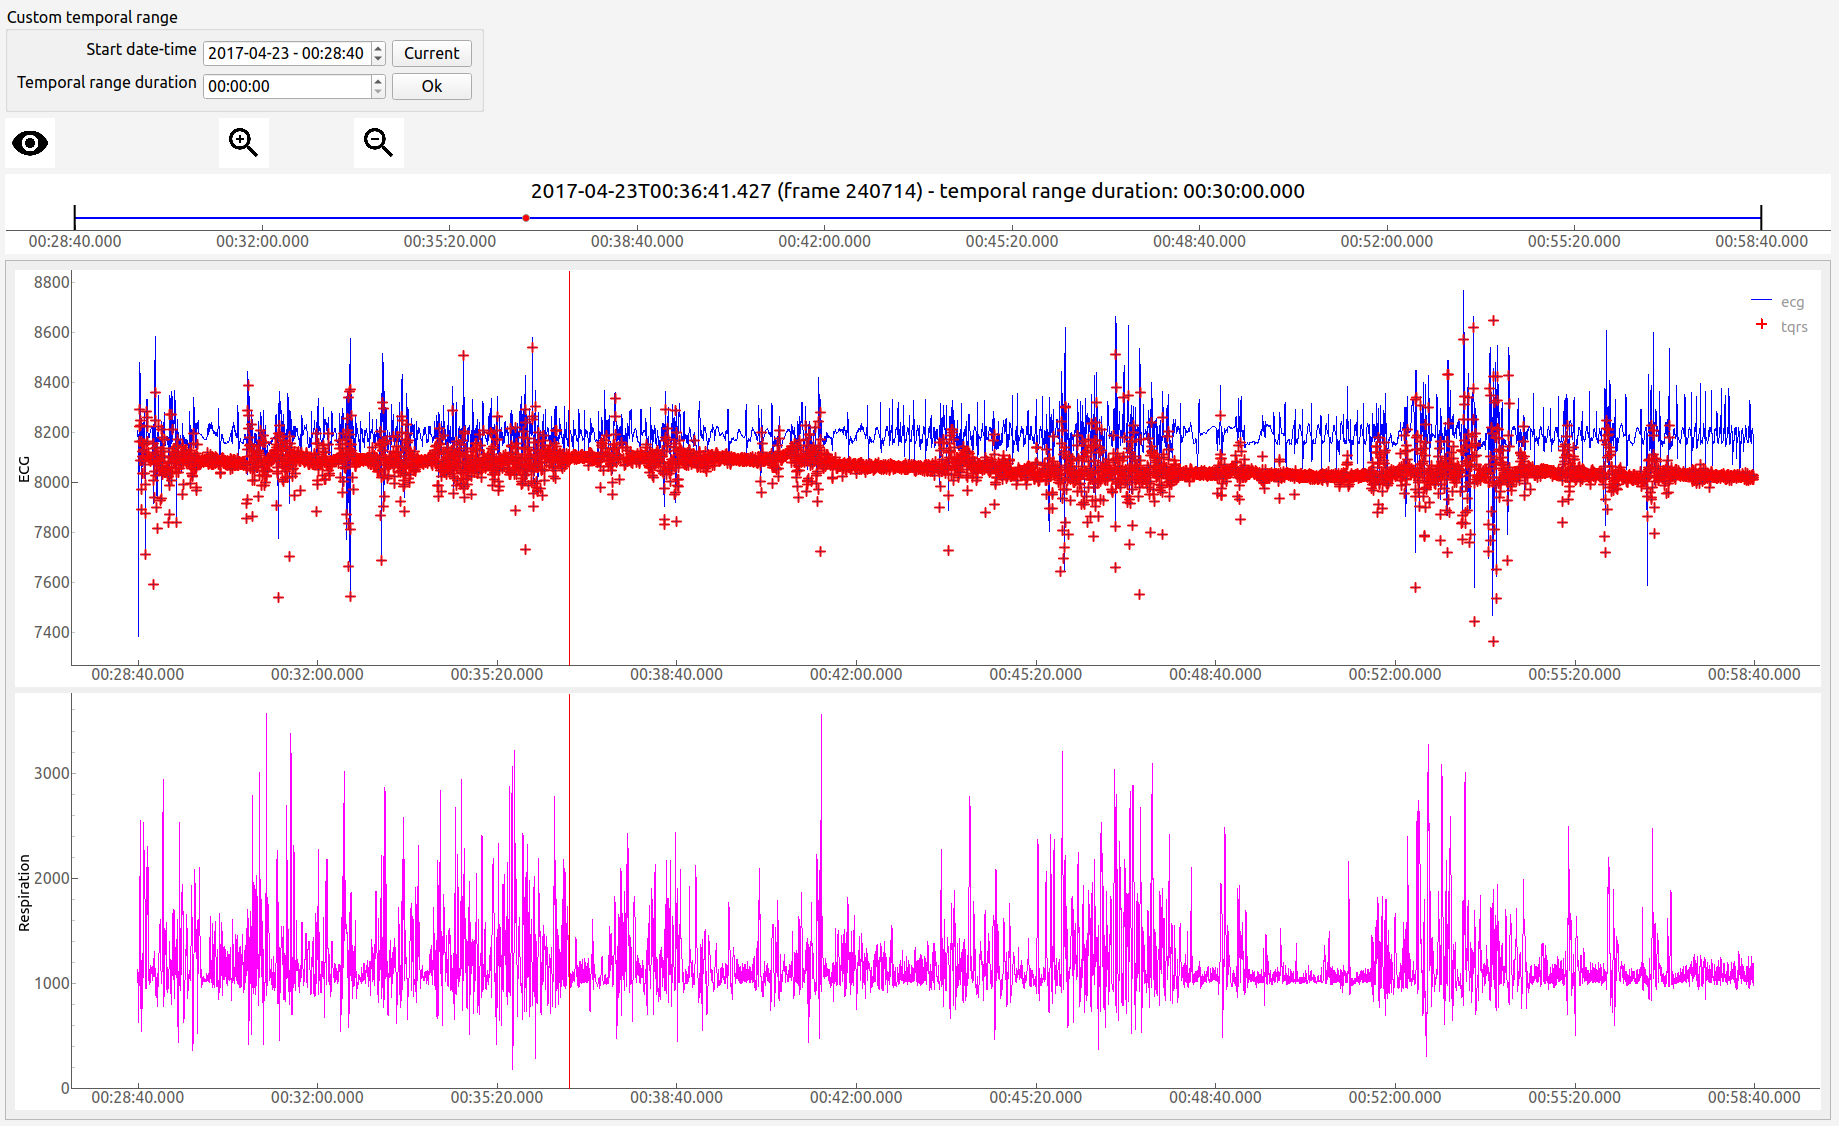
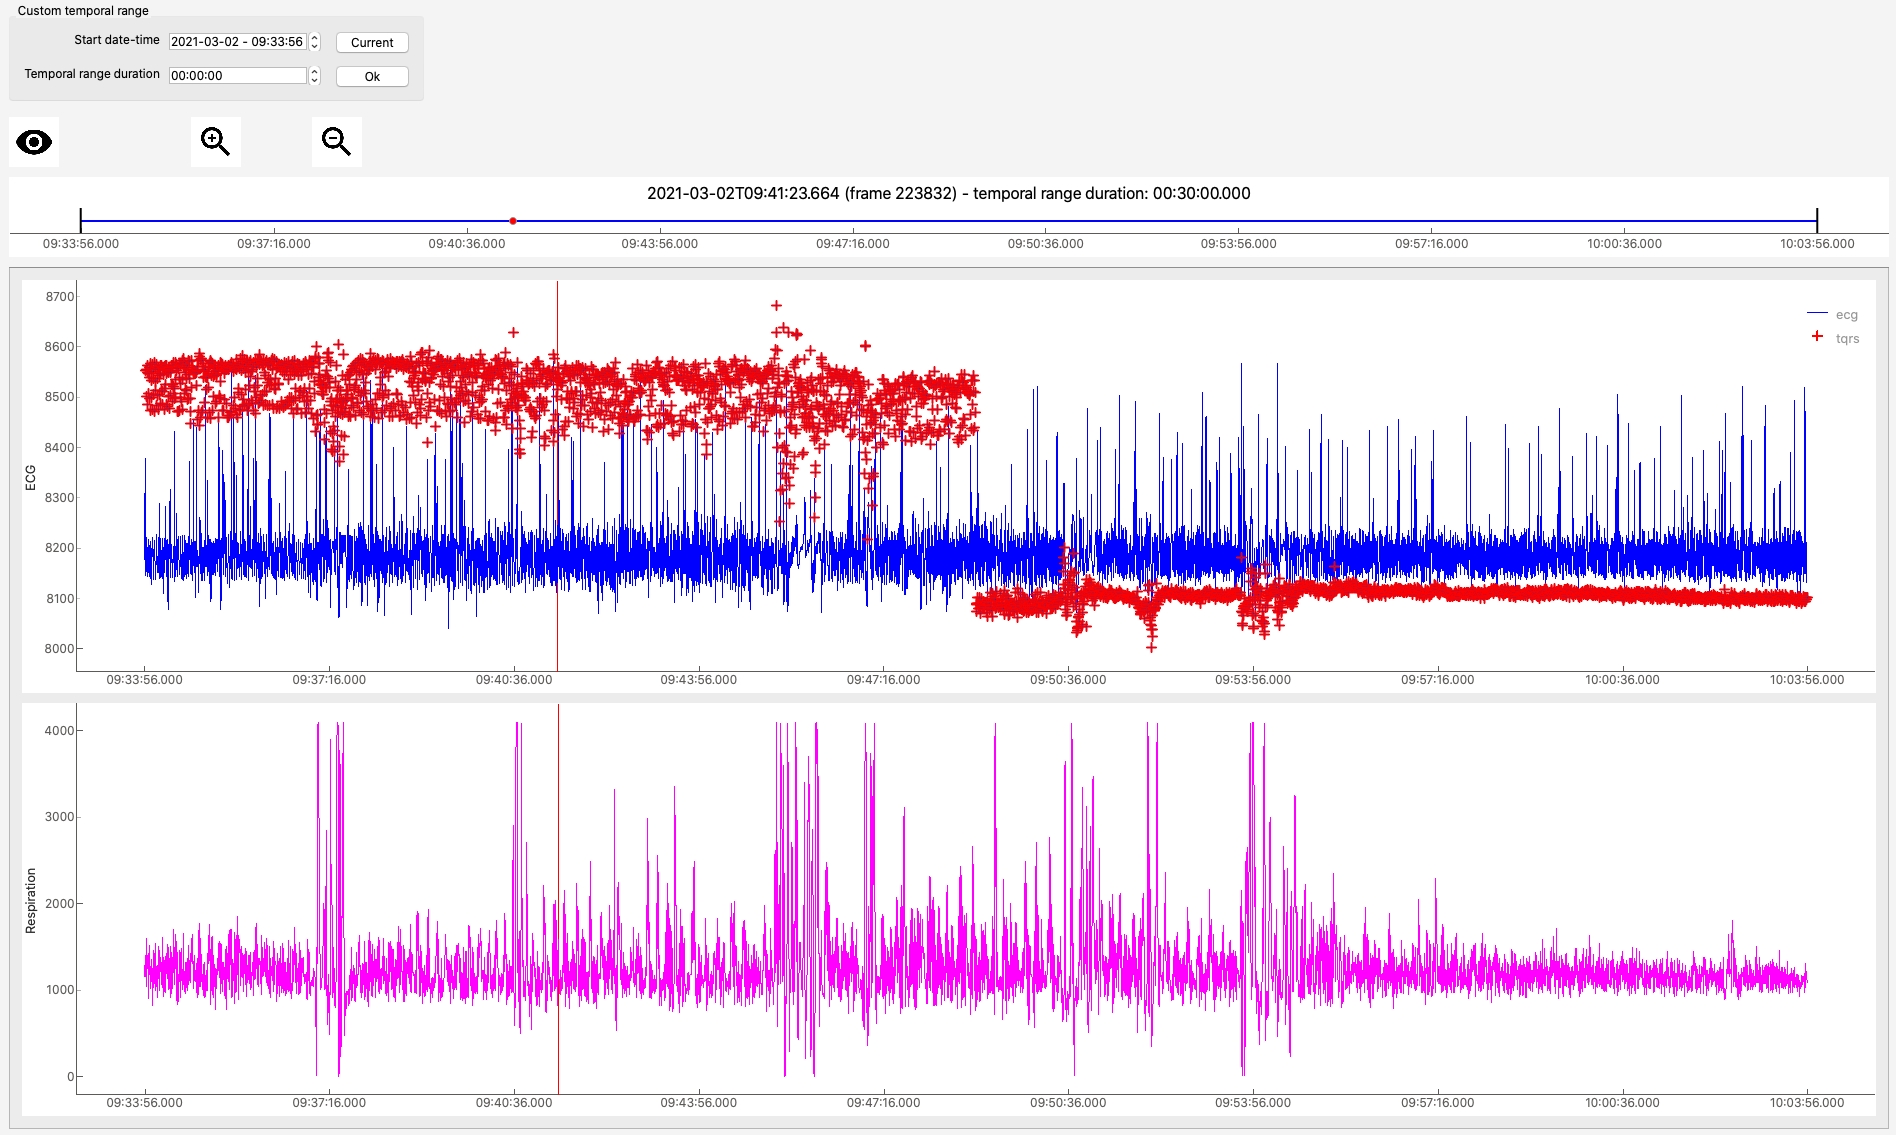
update documentation

diff --git a/doc/source/userguide-visiannot.rst b/doc/source/userguide-visiannot.rst
@@ -18,26 +18,24 @@ Here is an example::
 	from visiannot.visiannot import ViSiAnnoT
 
 	# video paths
-	path_video_1 = "data/2017-12-19T11-33-46_color.mp4"
-	path_video_2 = "data/2017-12-19T11-33-46_BW1.mp4"
-	path_video_3 = "data/2017-12-19T11-33-46_BW2.mp4"
+	path_video_1 = "data/Pat01_2021-03-02T09-33-56_BW1.mp4"
+	path_video_2 = "data/Pat01_2021-03-02T09-33-56_BW2.mp4"
 
 	# video configuration
 	video_dict = {}
-	video_dict["color"] = (path_video_1, '_', 0, "%Y-%m-%dT%H-%M-%S")
-	video_dict["BW1"] = (path_video_2, '_', 0, "%Y-%m-%dT%H-%M-%S")
-	video_dict["BW2"] = (path_video_3, '_', 0, "%Y-%m-%dT%H-%M-%S")
+	video_dict["BW1"] = [path_video_1, '_', 1, "%Y-%m-%dT%H-%M-%S"]
+	video_dict["BW2"] = [path_video_2, '_', 1, "%Y-%m-%dT%H-%M-%S"]
 
 	# create ViSiAnnoT window
 	win_visiannot = ViSiAnnoT(video_dict, {})
 
 
-From the sub-package **visiannot** we import the class :class:`.ViSiAnnoT`. We have a set of 3 synchronized videos (one in color and two in black & white), located in the folder *data*. The configuration dictionary ``video_dict`` specifies to :class:`.ViSiAnnoT` where to find the videos and how to get the beginning datetime in the video file name. Each item corresponds to one camera, the key is the camera ID and the value is a list/tuple of 4 elements:
+From the sub-package **visiannot** we import the class :class:`.ViSiAnnoT`. We have a set of 2 synchronized videos, located in the folder *data*. The configuration dictionary ``video_dict`` specifies to :class:`.ViSiAnnoT` where to find the videos and how to get the beginning datetime in the video file name. Each item corresponds to one camera, the key is the camera ID and the value is a list/tuple of 4 elements:
 
 * Path to the video file,
 * Delimiter to get the beginning datetime in the video file name,
 * Position of the beginning datetime in the video file name, according to the delimiter,
-* Format of the beginning datetime in the video file name (``"posix"`` or format compliant with ``datetime``, see https://docs.python.org/3/library/datetime.html#strftime-and-strptime-format-codes).
+* Format of the beginning datetime in the video file name (see keyword argument ``fmt`` of :func:`.convert_datetime_to_string`).
 
 The instance of :class:`.ViSiAnnoT` must be stored in a variable in order to have the window displayed.
 
@@ -84,9 +82,8 @@ Here is an example::
 	from visiannot.visiannot import ViSiAnnoT
 
 	# signal paths
-	path_ecg = "data/20170423T002840_ecg.txt"
-	path_resp = "data/20170423T002840_resp.txt"
-	path_tqrs = "data/20170423T002840_tqrs.mat"
+	path_physio = "data/Pat01_2021-03-02T09-33-56_physio.h5"
+	path_tqrs = "data/Pat01_2021-03-02T09-33-56_tqrs.txt"
 
 	# define plot style
 	plot_style_tqrs = {
@@ -102,12 +99,12 @@ Here is an example::
 	signal_dict = {}
 
 	signal_dict["ECG"] = [
-	    [path_ecg, '_', 0, "%Y%m%dT%H%M%S", "ecg", 500, None],
-	    [path_tqrs, '_', 0, "%Y%m%dT%H%M%S", "tqrs", 0, plot_style_tqrs]
+	    [path_physio, '_', 1, "%Y-%m-%dT%H-%M-%S", "ecg", 500, None],
+	    [path_tqrs, '_', 1, "%Y-%m-%dT%H-%M-%S", "tqrs", 0, plot_style_tqrs]
 	]
 
 	signal_dict["Respiration"] = [
-	    [path_resp, '_', 0, "%Y%m%dT%H%M%S", '', 62.5, plot_style_resp]
+	    [path_physio, '_', 1, "%Y-%m-%dT%H-%M-%S", "resp", "resp/freq", plot_style_resp]
 	]
 
 	# create ViSiAnnoT window
@@ -121,7 +118,7 @@ From the sub-package **visiannot** we import the class :class:`.ViSiAnnoT`. We h
 * Path to the signal file,
 * Delimiter to get the beginning datetime in the signal file name,
 * Position of the beginning datetime in the signal file name, according to the delimiter,
-* Format of the beginning datetime in the signal file name (``"posix"`` or format compliant with ``datetime``, see https://docs.python.org/3/library/datetime.html#strftime-and-strptime-format-codes),
+* Format of the beginning datetime in the signal file name (see keyword argument ``fmt`` of :func:`.convert_datetime_to_string`),
 * Key to access the data in the file (in case of .h5 or .mat, set it to ``''`` otherwise), also used a legend,
 * Signal frequency (may also be a string with path to the frequency attribute in case of h5 file), set it to ``0`` in case of non-regularly sampled signal,
 * Dictionary with plot style, set to ``None`` for default plot style.
@@ -144,7 +141,7 @@ Regarding the visualization of an audio signal, the configuration is slightly di
 	from visiannot.visiannot import ViSiAnnoT
 
 	# audio path
-	path_audio = "data/Zef.wav"
+	path_audio = "data/Pat01_audio.wav"
 
 	# signal configuration
 	signal_dict = {}
@@ -164,7 +161,7 @@ In order to specify the channel to display in each plot, we use the key to acces
 
 The signal frequency is automatically retrieved from the wav file, so in the configuration list it can be set to anything (in this example ``0``).
 
-The beginning datetime is not contained in the audio file name, so one of the three related variables is set to ``None`` and a default datetime is defined (2000/01/01 at 00:00:00).
+The beginning datetime is not contained in the audio file name, so one of the three related variables is set to ``None`` and a default beginning datetime is defined (2000/01/01 00:00:00).
 
 :numref:`fig-example-audio` shows a screenshot of the resulting window.
 
@@ -179,7 +176,7 @@ Zoom tools
 ----------
 The default zoom of **Pyqtgraph** is available for the Y axis of the signal plots and is overwritten for the X axis so that all the signal widgets are linked. Thus the zoom tools described here only affects the temporal axis.
 
-Based on :numref:`fig-example-signal`, :numref:`fig-example-signal-zoom` illustrates the temporal zoom. We call "temporal range" the period of the signals that is displayed and "temporal range duration" its duration. In the progress bar, the black lines delimit the temporal range. We can see that the temporal range duration in :numref:`fig-example-signal` is 00h30min00s and becomes 00h00min21s after zoom in :numref:`fig-example-signal-zoom`. The black lines of the progress bar have also moved to show what part of the signals is displayed.
+Based on :numref:`fig-example-signal`, :numref:`fig-example-signal-zoom` illustrates the temporal zoom. We call "temporal range" the period of the signals that is displayed and "temporal range duration" its duration. In the progress bar, the black lines delimit the temporal range. We can see that the temporal range duration in :numref:`fig-example-signal` is 30min00s and becomes 00min30s after zoom in :numref:`fig-example-signal-zoom`. The black lines of the progress bar have also moved to show what part of the signals is displayed.
 
 .. _fig-example-signal-zoom:
 
@@ -188,8 +185,6 @@ Based on :numref:`fig-example-signal`, :numref:`fig-example-signal-zoom` illustr
   Screenshot of ViSiAnnoT used as a signal viewer after zoom
 
 The user can zoom in/out around the temporal cursor by using the two buttons looking like magnifying glass. It is also possible to directly zoom out in order to visualize the full signals by using the button looking like an eye. The buttons can be seen in the top left corner of the window.
-
-The temporal range can be defined with the combo list "Temporal range duration". The user can select the duration of the new temporal range which starts at the current position of the temporal cursor.
 
 
 .. _yrange:
@@ -204,12 +199,12 @@ Here is an example::
 
 	from visiannot.visiannot import ViSiAnnoT
 
-	# signal paths
-	path_ecg = "data/20170423T002840_ecg.txt"
+	# signal path
+	path_physio = "data/Pat01_2021-03-02T09-33-56_physio.h5"
 
 	# signal configuration
 	signal_dict = {}
-	signal_dict["ECG"] = [[path_ecg, '_', 0, "%Y%m%dT%H%M%S", "ecg", 500, None]]
+	signal_dict["ECG"] = [[path_physio, '_', 1, "%Y-%m-%dT%H-%M-%S", "ecg", 500, None]]
 
 	# YRange configuration
 	y_range_dict = {}
@@ -229,34 +224,7 @@ Threshold values can be drawn as horizontal lines on a signal plot. It may be us
 
 This is done with the dictionary ``threshold_dict`` which is passed to :class:`.ViSiAnnoT` as a keyword argument. The key of the dictionary must correspond to a key of ``signal_dict``, it specifies the signal widget where to draw the threshold. The value of the dictionary is a nested list of thresholds, each element is a list of length 2: threshold value and threshold color (RGBA).
 
-Here is an example::
-
-	from visiannot.visiannot import ViSiAnnoT
-
-	# signal paths
-	path_ecg = "data/20170423T002840_ecg.txt"
-	path_tqrs = "data/20170423T002840_tqrs.mat"
-
-	# signal configuration
-	signal_dict = {}
-	signal_dict["ECG"] = [[path_ecg, '_', 0, "%Y%m%dT%H%M%S", "ecg", 500, None]]
-	signal_dict["RR"] = [[path_tqrs, '_', 0, "%Y%m%dT%H%M%S", "rr", 0, None]]
-
-	# threshold configuration
-	threshold_dict = {}
-	threshold_dict["RR"] = [
-		[600, (51, 102, 0, 50)],
-		[750, (178, 34, 34, 50)]
-	]
-
-	# create ViSiAnnoT window
-	win_visiannot = ViSiAnnoT(
-		{}, signal_dict, flag_pause_status=True, layout_mode=2,
-		threshold_dict=threshold_dict
-	)
-
-
-In this example, two thresholds are defined on the ``"RR"`` widget. :numref:`fig-example-threshold` shows this particular plot.
+:numref:`fig-example-threshold` shows an example of a signal widget with thresholds.
 
 .. _fig-example-threshold:
 
@@ -276,7 +244,7 @@ This is done with the dictionary ``interval_dict`` which is passed to :class:`.V
 * Path to the interval file,
 * Delimiter to get the beginning datetime in the interval file name,
 * Position of the beginning datetime in the interval file name, according to the delimiter,
-* Format of the beginning datetime in the interval file name (``"posix"`` or format compliant with ``datetime``, see https://docs.python.org/3/library/datetime.html#strftime-and-strptime-format-codes),
+* Format of the beginning datetime in the interval file name (see keyword argument ``fmt`` of :func:`.convert_datetime_to_string`),
 * Key to access the data in the file (in case of .h5 or .mat, set it to ``''`` otherwise),
 * Interval frequency (may also be a string with path to the frequency attribute in case of h5 file),
 * RGBA color.
@@ -291,39 +259,38 @@ Here is an example::
 	from visiannot.visiannot import ViSiAnnoT
 
 	# signal paths
-	path_ecg = "data/20170423T002840_ecg.txt"
-	path_tqrs = "data/20170423T002840_tqrs.mat"
-	path_interval = "data/20170423T002840_interval.txt"
-	path_intervalbis = "data/20170423T002840_intervalbis.txt"
+	path_physio = "data/Pat01_2021-03-02T09-33-56_physio.h5"
+	path_tqrs = "data/Pat01_2021-03-02T09-33-56_tqrs.txt"
+	path_interval_a = "data/Pat01_2021-03-02T09-33-56_intervalA.txt"
+	path_interval_b = "data/Pat01_2021-03-02T09-33-56_intervalB.txt"
 
 	# define plot style
 	plot_style_tqrs = {
-		'pen': None,
-		'symbol': '+',
-		'symbolPen': 'r',
-		'symbolSize': 10
+	    'pen': None,
+	    'symbol': '+',
+	    'symbolPen': 'r',
+	    'symbolSize': 10
 	}
 
 	# signal configuration
 	signal_dict = {}
 	signal_dict["ECG"] = [
-		[path_ecg, '_', 0, "%Y%m%dT%H%M%S", "ecg", 500, None],
-		[path_tqrs, '_', 0, "%Y%m%dT%H%M%S", "tqrs", 0, plot_style_tqrs]
+	    [path_physio, '_', 1, "%Y-%m-%dT%H-%M-%S", "ecg", 500, None],
+	    [path_tqrs, '_', 1, "%Y-%m-%dT%H-%M-%S", "tqrs", 0, plot_style_tqrs]
 	]
 
 	# interval configuration
 	interval_dict = {}
 	interval_dict["ECG"] = [
-		[path_interval, '_', 0, "%Y%m%dT%H%M%S", '', 500, (0, 255, 0, 50)],
-		[path_intervalbis, '_', 0, "%Y%m%dT%H%M%S", '', 500, (255, 200, 0, 50)]
+	    [path_interval_a, '_', 1, "%Y-%m-%dT%H-%M-%S", '', 500, (0, 255, 0, 50)],
+	    [path_interval_b, '_', 1, "%Y-%m-%dT%H-%M-%S", '', 500, (255, 200, 0, 50)]
 	]
 
 	# create ViSiAnnoT window
 	win_visiannot = ViSiAnnoT(
-		{}, signal_dict, flag_pause_status=True, layout_mode=2,
-		interval_dict=interval_dict
+	    {}, signal_dict, flag_pause_status=True, layout_mode=2,
+	    interval_dict=interval_dict
 	)
-
 
 In this example, two kinds of intervals are defined on the ``"ECG"`` widget. A specific color is assigned to each kind of temporal intervals. :numref:`fig-example-intervals` shows this particular plot.
 
@@ -342,22 +309,20 @@ Combined video and signal visualization
 
 Here is an example::
 
-	from visiannot.VISIANNOT import ViSiAnnoT
+	from visiannot.visiannot import ViSiAnnoT
 
 	# video paths
-	path_video_1 = "data/2017-12-19T11-33-46_color.mp4"
-	path_video_2 = "data/2017-12-19T11-33-46_BW1.mp4"
-	path_video_3 = "data/2017-12-19T11-33-46_BW2.mp4"
+	path_video_1 = "data/Pat01_2021-03-02T09-33-56_BW1.mp4"
+	path_video_2 = "data/Pat01_2021-03-02T09-33-56_BW2.mp4"
 
 	# video configuration
 	video_dict = {}
-	video_dict["color"] = (path_video_1, '_', 0, "%Y-%m-%dT%H-%M-%S")
-	video_dict["BW1"] = (path_video_2, '_', 0, "%Y-%m-%dT%H-%M-%S")
-	video_dict["BW2"] = (path_video_3, '_', 0, "%Y-%m-%dT%H-%M-%S")
+	video_dict["BW1"] = [path_video_1, '_', 1, "%Y-%m-%dT%H-%M-%S"]
+	video_dict["BW2"] = [path_video_2, '_', 1, "%Y-%m-%dT%H-%M-%S"]
 
 	# signal paths
-	path_ecg = "data/20170423T002840_ecg.txt"
-	path_tqrs = "data/20170423T002840_tqrs.mat"
+	path_physio = "data/Pat01_2021-03-02T09-33-56_physio.h5"
+	path_tqrs = "data/Pat01_2021-03-02T09-33-56_tqrs.txt"
 
 	# define plot style
 	plot_style_tqrs = {
@@ -371,8 +336,8 @@ Here is an example::
 	signal_dict = {}
 
 	signal_dict["ECG"] = [
-	    [path_ecg, '_', 0, "%Y%m%dT%H%M%S", "ecg", 500, None],
-	    [path_tqrs, '_', 0, "%Y%m%dT%H%M%S", "tqrs", 0, plot_style_tqrs]
+	    [path_physio, '_', 1, "%Y-%m-%dT%H-%M-%S", "ecg", 500, None],
+	    [path_tqrs, '_', 1, "%Y-%m-%dT%H-%M-%S", "tqrs", 0, plot_style_tqrs]
 	]
 
 	# create ViSiAnnoT window
@@ -429,7 +394,7 @@ Regarding ``video_dict``, each item corresponds to one camera. The key is the ca
 * Pattern to find the video files,
 * Delimiter to get the beginning datetime in the video file name,
 * Position of the beginning datetime in the video file name, according to the delimiter,
-* Format of the beginning datetime in the video file name (``"posix"`` or format compliant with ``datetime``, see https://docs.python.org/3/library/datetime.html#strftime-and-strptime-format-codes).
+* Format of the beginning datetime in the video file name (see keyword argument ``fmt`` of :func:`.convert_datetime_to_string`).
 
 Regarding ``signal_dict``, each item corresponds to one signal widget. The key is the widget ID. The value is a nested configuration list where each element corresponds to one signal to plot and is a list of 8 elements:
 
@@ -437,7 +402,7 @@ Regarding ``signal_dict``, each item corresponds to one signal widget. The key i
 * Pattern to find the signal files,
 * Delimiter to get the beginning datetime in the signal file name,
 * Position of the beginning datetime in the signal file name, according to the delimiter,
-* Format of the beginning datetime in the signal file name (``"posix"`` or format compliant with ``datetime``, see https://docs.python.org/3/library/datetime.html#strftime-and-strptime-format-codes),
+* Format of the beginning datetime in the signal file name (see keyword argument ``fmt`` of :func:`.convert_datetime_to_string`),
 * Key to access the data in the file (in case of .h5 or .mat, set it to ``''`` otherwise), also used a legend,
 * Signal frequency (may also be a string with path to the frequency attribute in case of h5 file), set it to ``0`` in case of non-regularly sampled signal,
 * Dictionary with plot style.
@@ -468,36 +433,23 @@ Here is an example::
 
 	from visiannot.visiannot import ViSiAnnoTLongRec
 
-	# video directory
-	dir_video = "data"
+	# data directory
+	data_dir = "data"
 
 	# video configuration
 	video_dict = {}
-	video_dict["BW1"] = [dir_video, "*BW1*.mp4", '_', 0, "%Y-%m-%dT%H-%M-%S"]
-	video_dict["BW2"] = [dir_video, "*BW2*.mp4", '_', 0, "%Y-%m-%dT%H-%M-%S"]
-
-	# signal directory
-	dir_sig = "data"
+	video_dict["BW1"] = [data_dir, "*BW1*.mp4", '_', 1, "%Y-%m-%dT%H-%M-%S"]
+	video_dict["BW2"] = [data_dir, "*BW2*.mp4", '_', 1, "%Y-%m-%dT%H-%M-%S"]
 
 	# signal configuration
 	signal_dict = {}
+	signal_dict["ECG"] = [[data_dir, "physio_*.h5", '_', 1, "%Y-%m-%dT%H-%M-%S", "ecg", 500, None]]
+	signal_dict["Respiration"] = [[data_dir, "physio_*.h5", '_', 1, "%Y-%m-%dT%H-%M-%S", "resp", "resp/freq", None]]
 
-	signal_dict["ECG"] = [
-	    [dir_sig, "data_15*.h5", '_', 1, "posix", "ecg/value", 500, None]
-	]
-
-	signal_dict["Respiration"] = [
-	    [
-	        dir_sig, "data_15*.h5", '_', 1, "posix", "resp/value", 62.5,
-	        {'pen': {'color': 'm', 'width': 1}}
-	    ]
-	]
 
 	# create ViSiAnnoT window
 	win_visiannot = ViSiAnnoTLongRec(
-	    video_dict, signal_dict,
-	    flag_pause_status=True,
-	    flag_synchro=False
+	    video_dict, signal_dict, flag_pause_status=True, flag_synchro=False
 	)
 
 
@@ -565,7 +517,7 @@ In the constructor of :class:`.ViSiAnnoT`, the keyword argument ``annot_dir`` sp
 
 For each label, a text file is created with the intervals of the annotated events. The name of the annotation file is ``BASENAME_LABEL``, where ``BASENAME`` is the basename of the annotation directory and ``LABEL`` is the label.
 
-Each line in an annotation file corresponds to an annotated event: ``TS1 - TS2``, where ``TS1`` (resp. ``TS2``) is the start (resp. stop) timestamp of the annotated event. The timestamp is formatted as follows: ``%Y-%m-%dT%H:%M:%S.%sss``, where ``%Y`` is the year in 4 digits, ``%m`` is the month in 2 digits, ``%d`` is the day in 2 digits, ``%H`` is the hour, ``%M`` is the minute, ``%S`` is the second and ``%sss`` is the millisecond.
+Each line in an annotation file corresponds to an annotated event: ``TS1 - TS2``, where ``TS1`` (resp. ``TS2``) is the start (resp. stop) timestamp of the annotated event. The timestamp is formatted as follows: ``%Y-%m-%dT%H:%M:%S.%f``, where ``%Y`` is the year in 4 digits, ``%m`` is the month in 2 digits, ``%d`` is the day in 2 digits, ``%H`` is the hour, ``%M`` is the minute, ``%S`` is the second and ``%f`` is the microsecond.
 
 
 .. _image-extraction:
@@ -599,32 +551,20 @@ Here is an example of combined video and signal visualization in the context of 
 
 	from visiannot.visiannot import ViSiAnnoTLongRec
 
-	# video directory
-	dir_video = "data"
+	# data directory
+	data_dir = "data"
 
 	# video configuration
 	video_dict = {}
-	video_dict["BW1"] = [dir_video, "*BW1*.mp4", '_', 0, "%Y-%m-%dT%H-%M-%S"]
-	video_dict["BW2"] = [dir_video, "*BW2*.mp4", '_', 0, "%Y-%m-%dT%H-%M-%S"]
-
-	# signal directory
-	dir_sig = "data"
+	video_dict["BW1"] = [data_dir, "*BW1*.mp4", '_', 1, "%Y-%m-%dT%H-%M-%S"]
+	video_dict["BW2"] = [data_dir, "*BW2*.mp4", '_', 1, "%Y-%m-%dT%H-%M-%S"]
 
 	# signal configuration
 	signal_dict = {}
+	signal_dict["ECG"] = [[data_dir, "physio_*.h5", '_', 1, "%Y-%m-%dT%H-%M-%S", "ecg", 500, None]]
+	signal_dict["Respiration"] = [[data_dir, "physio_*.h5", '_', 1, "%Y-%m-%dT%H-%M-%S", "resp", "resp/freq", None]]
 
-	signal_dict["ECG"] = [
-	    [dir_sig, "data_15*.h5", '_', 1, "posix", "ecg/value", 500, None]
-	]
-
-	signal_dict["Respiration"] = [
-	    [
-	        dir_sig, "data_15*.h5", '_', 1, "posix", "resp/value", 62.5,
-	        {'pen': {'color': 'm', 'width': 1}}
-	    ]
-	]
-
-	# events annotation dictionary
+	# event annotation dictionary
 	annotevent_dict = {}
 	annotevent_dict["Label-1"] = [200, 105, 0, 50]
 	annotevent_dict["Label-2"] = [105, 205, 0, 50]
@@ -632,16 +572,15 @@ Here is an example of combined video and signal visualization in the context of 
 	# image annotation dictionary
 	annotimage_list = ["Label-A", "Label-B"]
 
-
 	# create ViSiAnnoT window
 	win_visiannot = ViSiAnnoTLongRec(
 	    video_dict, signal_dict,
+	    flag_pause_status=True,
+	    flag_synchro=False,
 	    annotevent_dict=annotevent_dict,
 	    annotimage_list=annotimage_list,
-	    flag_pause_status=True,
 	    trunc_duration=(5, 0),
 	    from_cursor_list=[(0, 30), (1, 0), (2, 0)],
-	    flag_synchro=False,
 	    layout_mode=1
 	)
 
